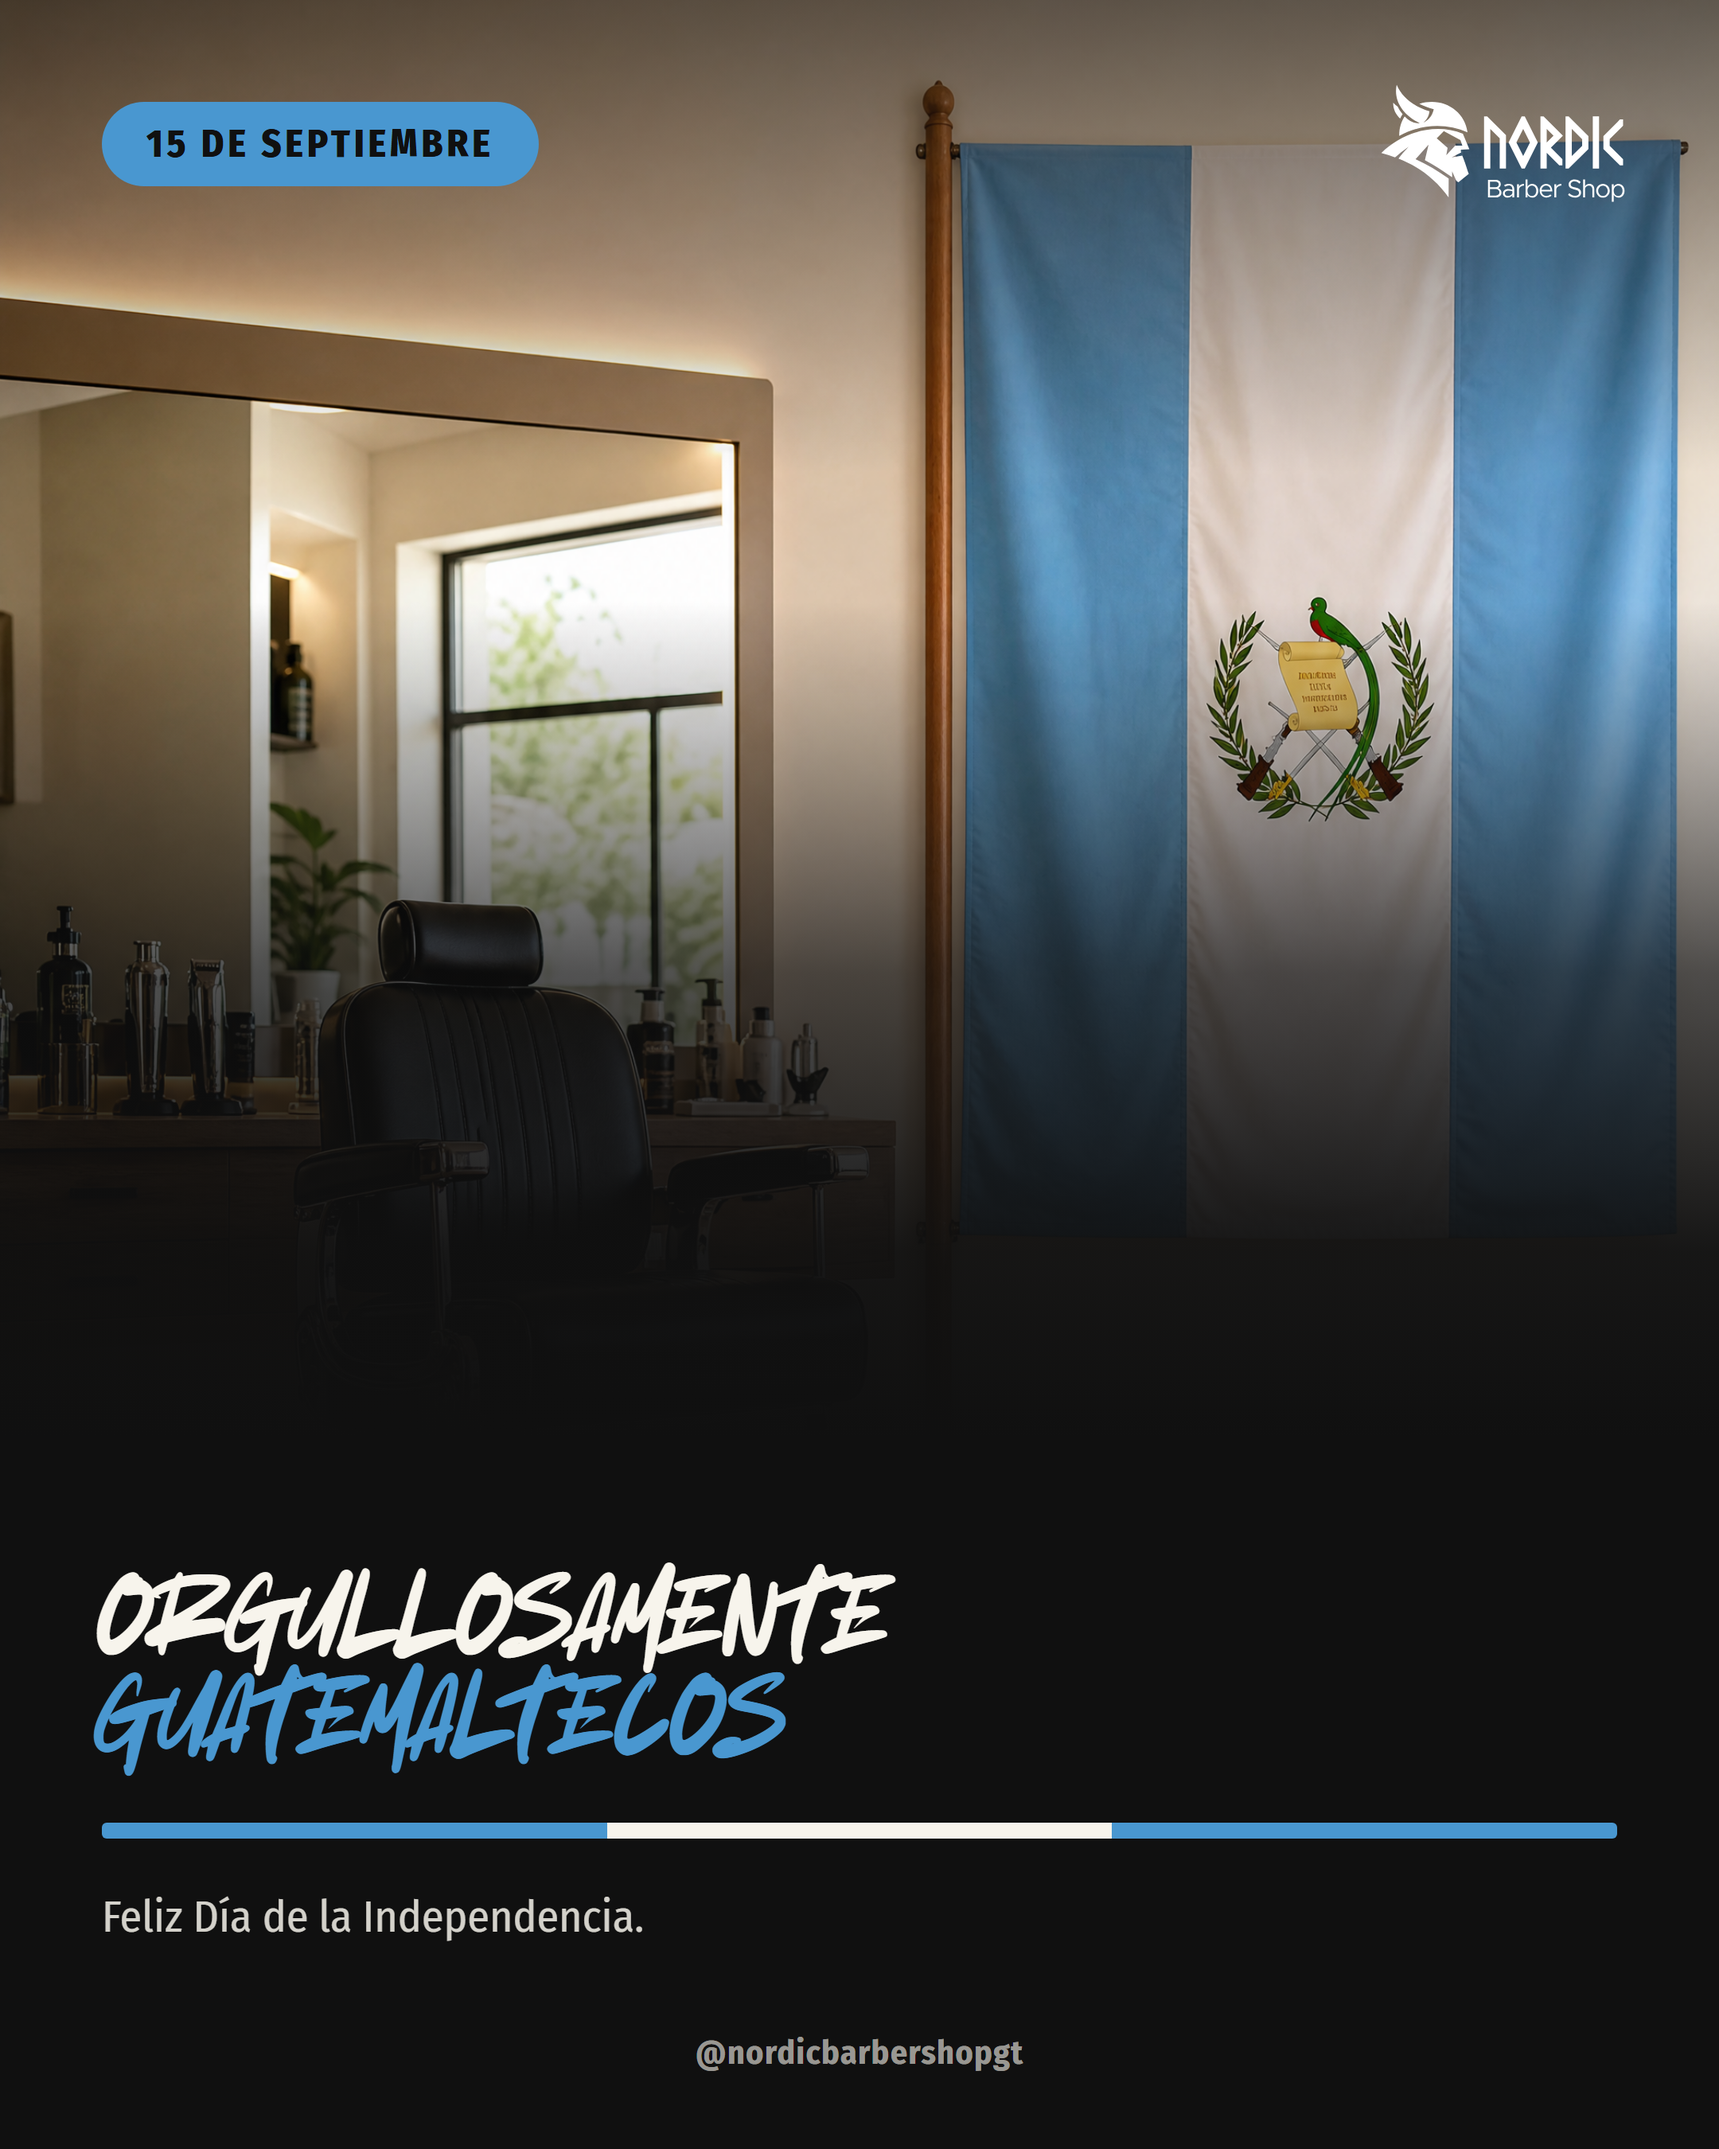
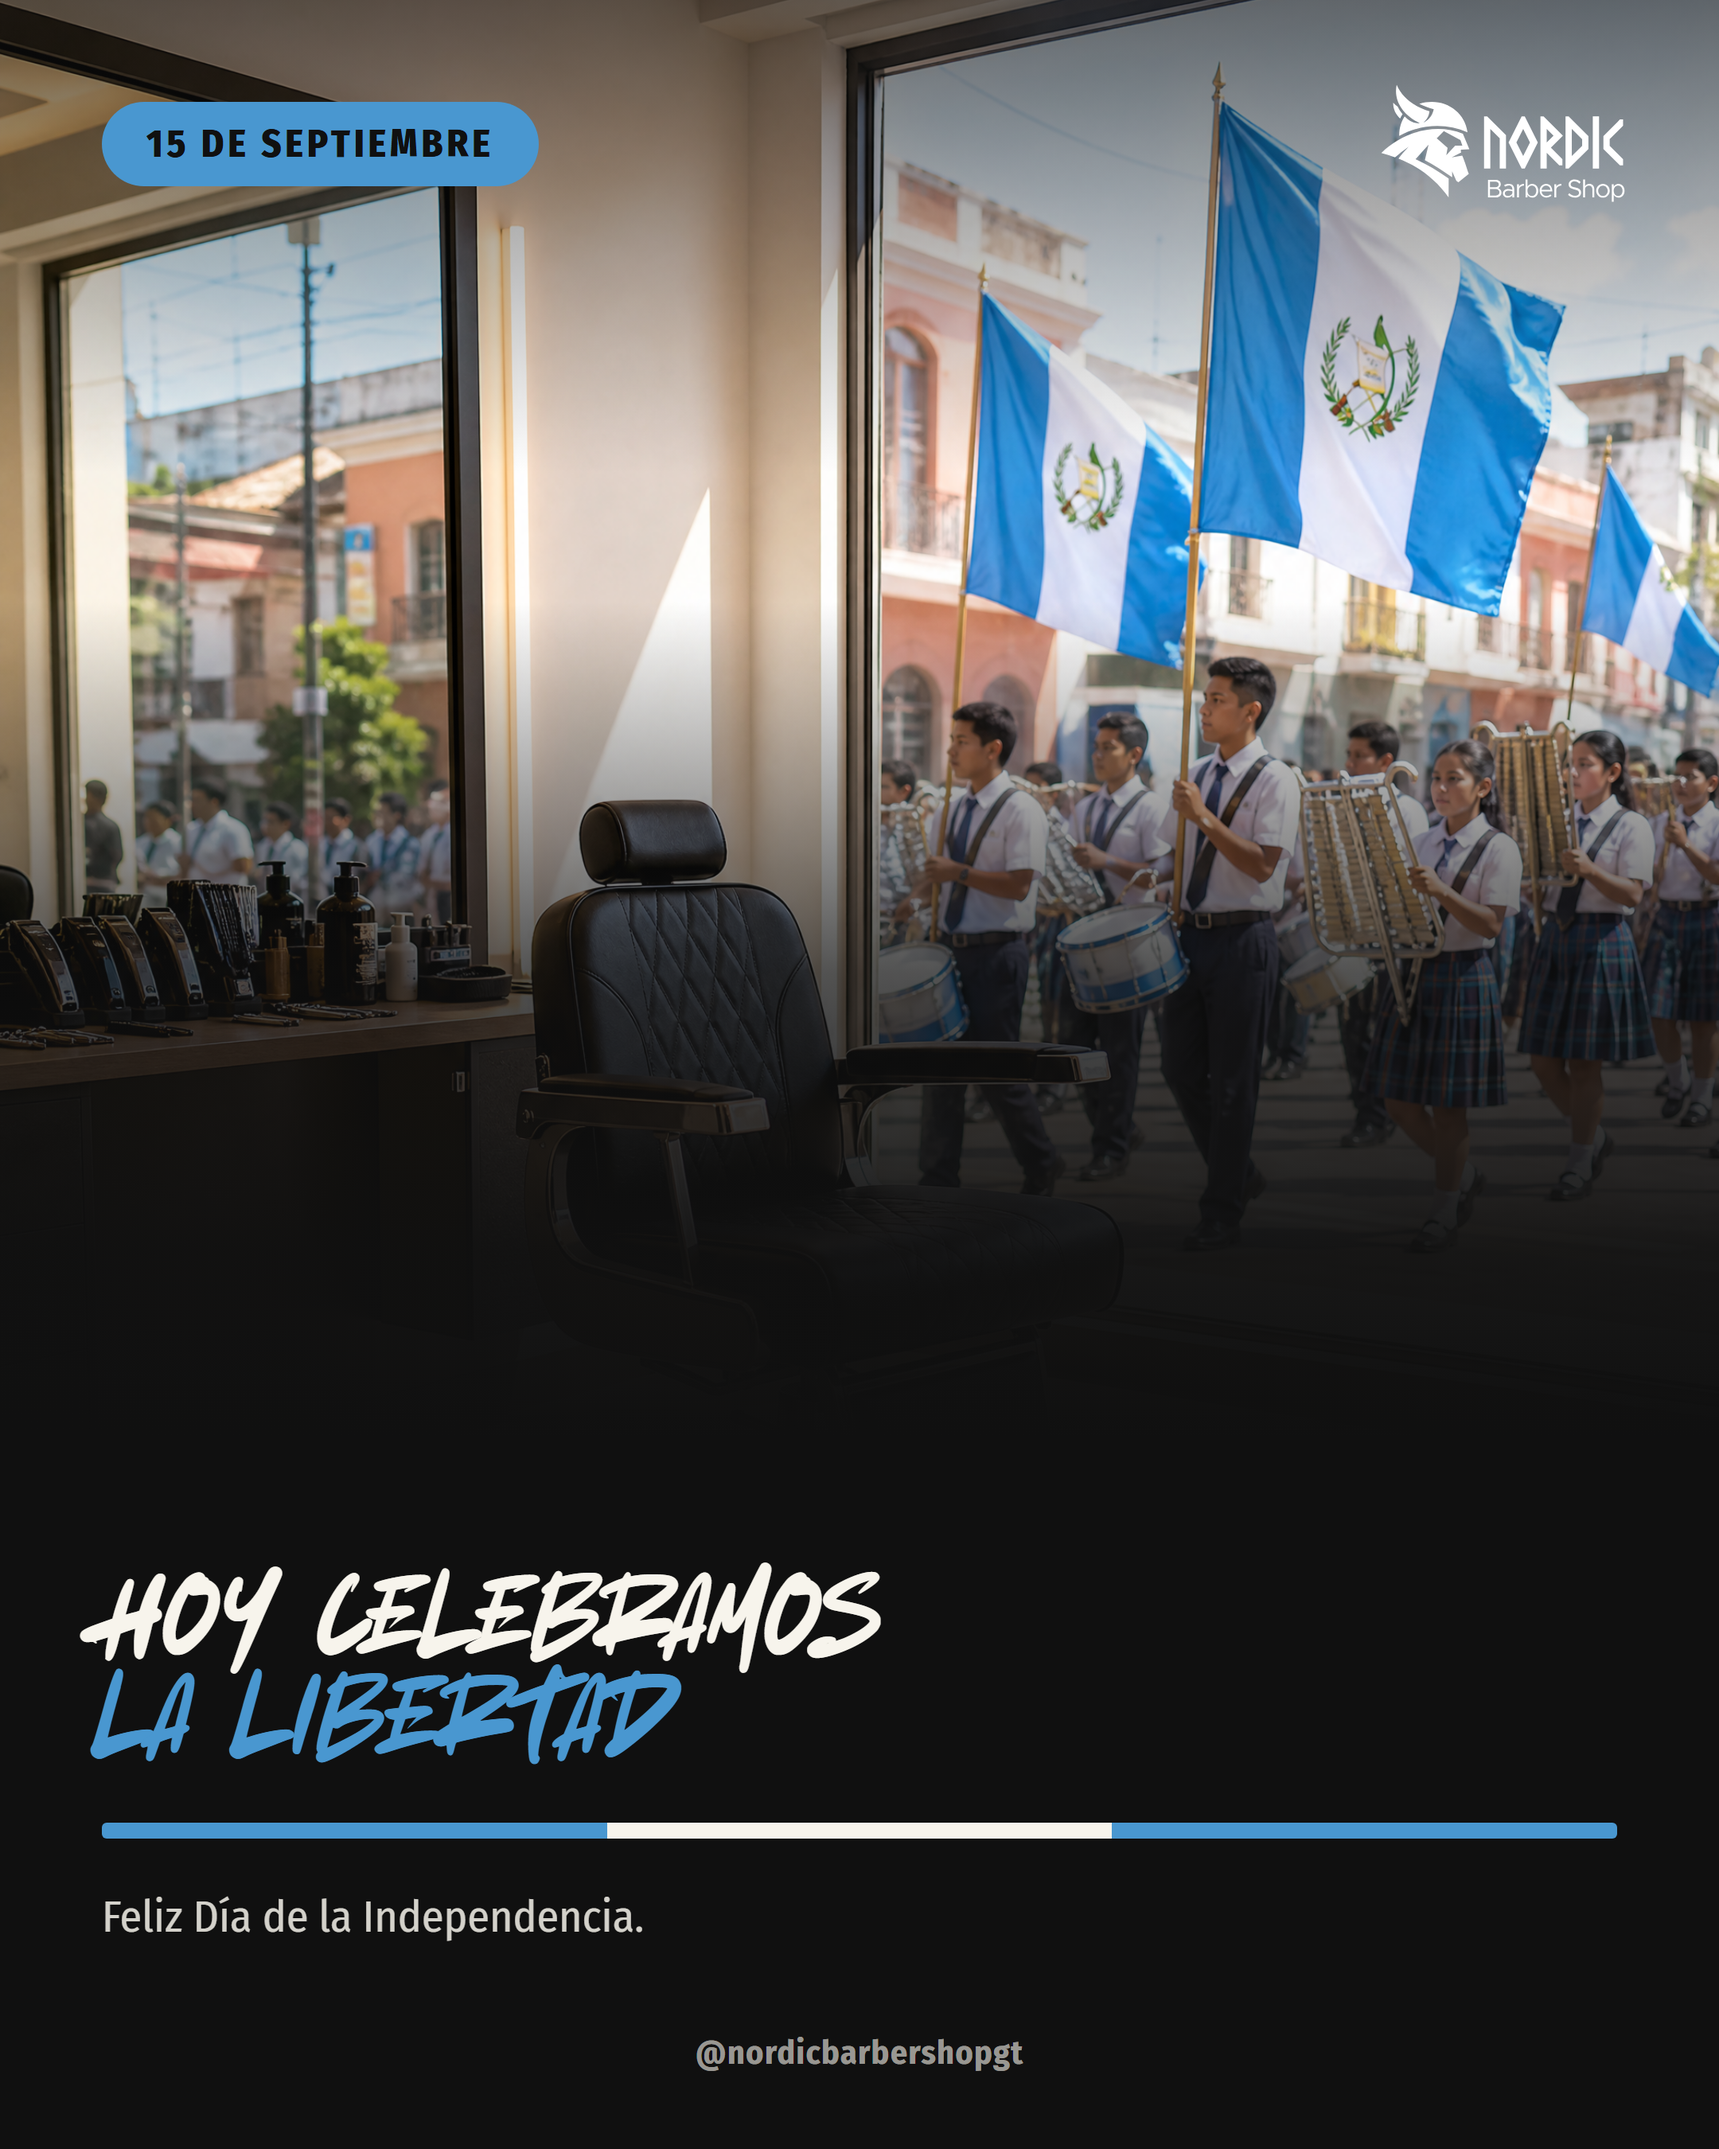
Revise 15 de septiembre post v6: parade band scene, "hoy celebramos la libertad"
Client asked (via text) for the commemorative post to say "hoy 15 de
septiembre celebramos la libertad" and reference it with a school
marching band / desfile. Kept the barbershop interior (chair, mirror,
station) and regenerated the background so a Guatemalan Independence
Day school band parade -- drums, liras, uniformed students, several
flags with the accurate coat of arms -- passes by a large storefront
window, in full natural daylight color (design-system.md's "modern,
not vintage" imagery rule ruled out the alternative 1821-signing
scene).

Headline changed from "Orgullosamente / Guatemaltecos" to "Hoy
celebramos / La libertad" (highlight: "La libertad"); date stays in
the pill/caption only, so no digits enter Lost in South (missing
0/2/8 glyphs). CSS/layout unchanged since v2 -- only background photo
and headline copy changed. Prior versions (v1-v5) kept under raw/ for
reference, same as before.

Wired both dia-independencia-guatemala entries (feed + story) into
the root index.html showcase with updated alt text.

diff --git a/index.html b/index.html
@@ -465,7 +465,7 @@ const POSTS = [
     title:'Día de la Independencia de Guatemala',
     label:'Conmemorativo',
     cover:'posts/instagram/dia-independencia-guatemala/00-portada.png',
-    alt:'Post conmemorativo Nordic Barber Shop del 15 de septiembre: interior de barbería a color con luz de día, silla de barbero clásica y una gran bandera de Guatemala con su escudo (quetzal, fusiles cruzados, laureles) sobre asta de madera, pill y titular en celeste guatemalteco — Orgullosamente guatemaltecos, feliz Día de la Independencia',
+    alt:'Post conmemorativo Nordic Barber Shop del 15 de septiembre: interior de barbería a color con luz de día, silla de barbero clásica junto a un ventanal por el que pasa una banda escolar de desfile (tambores, liras, banderas de Guatemala con su escudo), pill y titular en celeste guatemalteco — Hoy celebramos la libertad, feliz Día de la Independencia',
     copyJson:'posts/instagram/dia-independencia-guatemala/copy.json',
     file:'00-portada.png'
   },
@@ -476,7 +476,7 @@ const POSTS = [
     title:'Día de la Independencia de Guatemala',
     label:'Versión: Story',
     cover:'posts/instagram/dia-independencia-guatemala/00-story.png',
-    alt:'Post conmemorativo Nordic Barber Shop del 15 de septiembre: interior de barbería a color con luz de día, silla de barbero clásica y una gran bandera de Guatemala con su escudo (quetzal, fusiles cruzados, laureles) sobre asta de madera, pill y titular en celeste guatemalteco — Orgullosamente guatemaltecos, feliz Día de la Independencia, versión Story',
+    alt:'Post conmemorativo Nordic Barber Shop del 15 de septiembre: interior de barbería a color con luz de día, silla de barbero clásica junto a un ventanal por el que pasa una banda escolar de desfile (tambores, liras, banderas de Guatemala con su escudo), pill y titular en celeste guatemalteco — Hoy celebramos la libertad, feliz Día de la Independencia, versión Story',
     copyJson:'posts/instagram/dia-independencia-guatemala/copy.json',
     file:'00-story.png'
   },

diff --git a/posts/instagram/dia-independencia-guatemala/index-story.html b/posts/instagram/dia-independencia-guatemala/index-story.html
@@ -157,7 +157,7 @@
 
   <div class="content">
 
-    <div class="headline">ORGULLOSAMENTE<br><span class="hl">GUATEMALTECOS</span></div>
+    <div class="headline">HOY CELEBRAMOS<br><span class="hl">LA LIBERTAD</span></div>
 
     <div class="flag-rule">
       <span class="c"></span><span class="w"></span><span class="c"></span>

diff --git a/posts/instagram/dia-independencia-guatemala/index.html b/posts/instagram/dia-independencia-guatemala/index.html
@@ -157,7 +157,7 @@
 
   <div class="content">
 
-    <div class="headline">ORGULLOSAMENTE<br><span class="hl">GUATEMALTECOS</span></div>
+    <div class="headline">HOY CELEBRAMOS<br><span class="hl">LA LIBERTAD</span></div>
 
     <div class="flag-rule">
       <span class="c"></span><span class="w"></span><span class="c"></span>
